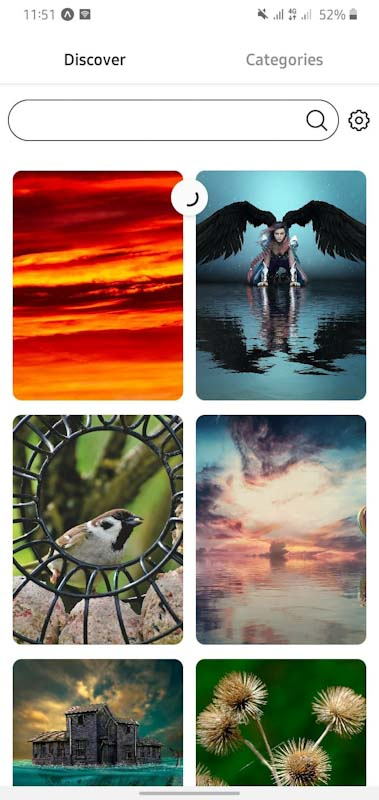
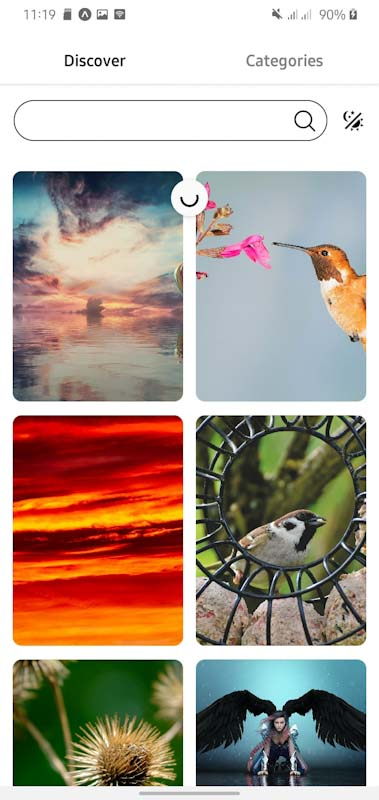
Add screenshot

diff --git a/screens/Discover.js b/screens/Discover.js
@@ -151,7 +151,7 @@ const styles = StyleSheet.create({
   },
   textInput: {
     height: "100%",
-    width: "80%",
+    width: "75%",
     fontSize: 18,
   },
   text: {
